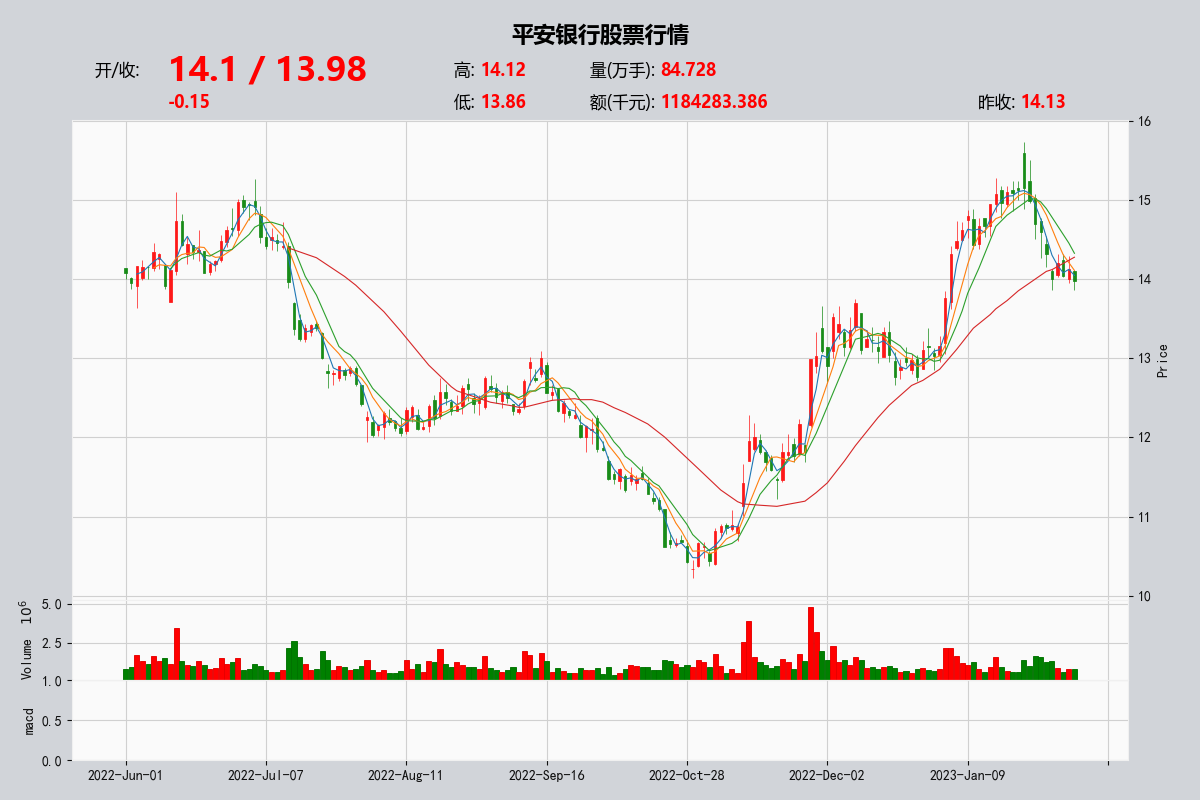
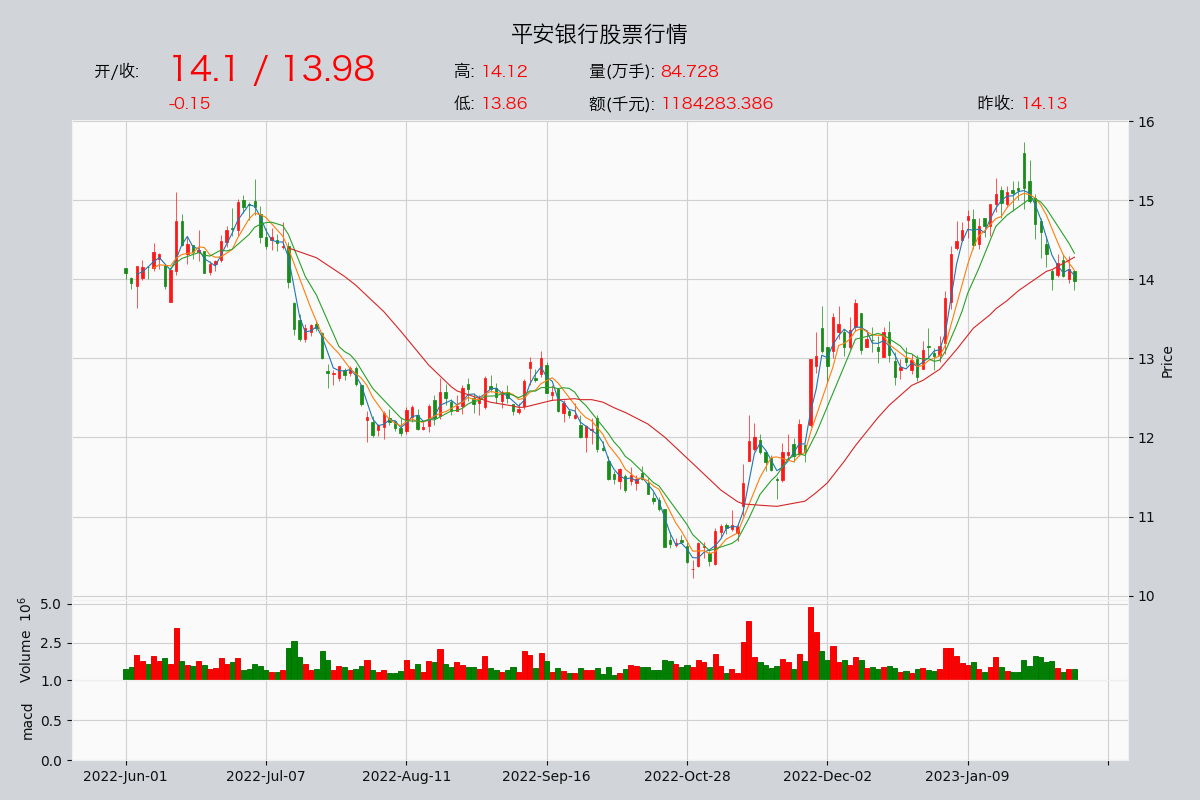
feat: 优化

diff --git a/stock/main.py b/stock/main.py
@@ -153,44 +153,44 @@ def read_daily():
     # data.to_csv('t_daily.csv')
 
 # 标题格式，字体为中文字体，颜色为黑色，粗体，水平中心对齐
-title_font = {'fontname': 'Microsoft YaHei',
+title_font = {'fontname': 'Hiragino Sans GB',
               'size':     '16',
               'color':    'black',
               'weight':   'bold',
               'va':       'bottom',
               'ha':       'center'}
 # 红色数字格式（显示开盘收盘价）粗体红色24号字
-large_red_font = {'fontname': 'Microsoft YaHei',
+large_red_font = {'fontname': 'Hiragino Sans GB',
                   'size':     '24',
                   'color':    'red',
                   'weight':   'bold',
                   'va':       'bottom'}
 # 绿色数字格式（显示开盘收盘价）粗体绿色24号字
-large_green_font = {'fontname': 'Microsoft YaHei',
+large_green_font = {'fontname': 'Hiragino Sans GB',
                     'size':     '24',
                     'color':    'green',
                     'weight':   'bold',
                     'va':       'bottom'}
 # 小数字格式（显示其他价格信息）粗体红色12号字
-small_red_font = {'fontname': 'Microsoft YaHei',
+small_red_font = {'fontname': 'Hiragino Sans GB',
                   'size':     '12',
                   'color':    'red',
                   'weight':   'bold',
                   'va':       'bottom'}
 # 小数字格式（显示其他价格信息）粗体绿色12号字
-small_green_font = {'fontname': 'Microsoft YaHei',
+small_green_font = {'fontname': 'Hiragino Sans GB',
                     'size':     '12',
                     'color':    'green',
                     'weight':   'bold',
                     'va':       'bottom'}
 # 标签格式，可以显示中文，普通黑色12号字
-normal_label_font = {'fontname': 'Microsoft YaHei',
+normal_label_font = {'fontname': 'Hiragino Sans GB',
                      'size':     '12',
                      'color':    'black',
                      'va':       'bottom',
                      'ha':       'right'}
 # 普通文本格式，普通黑色12号字
-normal_font = {'fontname': 'Microsoft YaHei',
+normal_font = {'fontname': 'Hiragino Sans GB',
                'size':     '12',
                'color':    'black',
                'va':       'bottom',
@@ -304,7 +304,7 @@ def main():
   #       #  marketcolors=my_color
   #        )
   
-  np.fft.fft()
+  # np.fft.fft()
   
   print('Finished')
   
